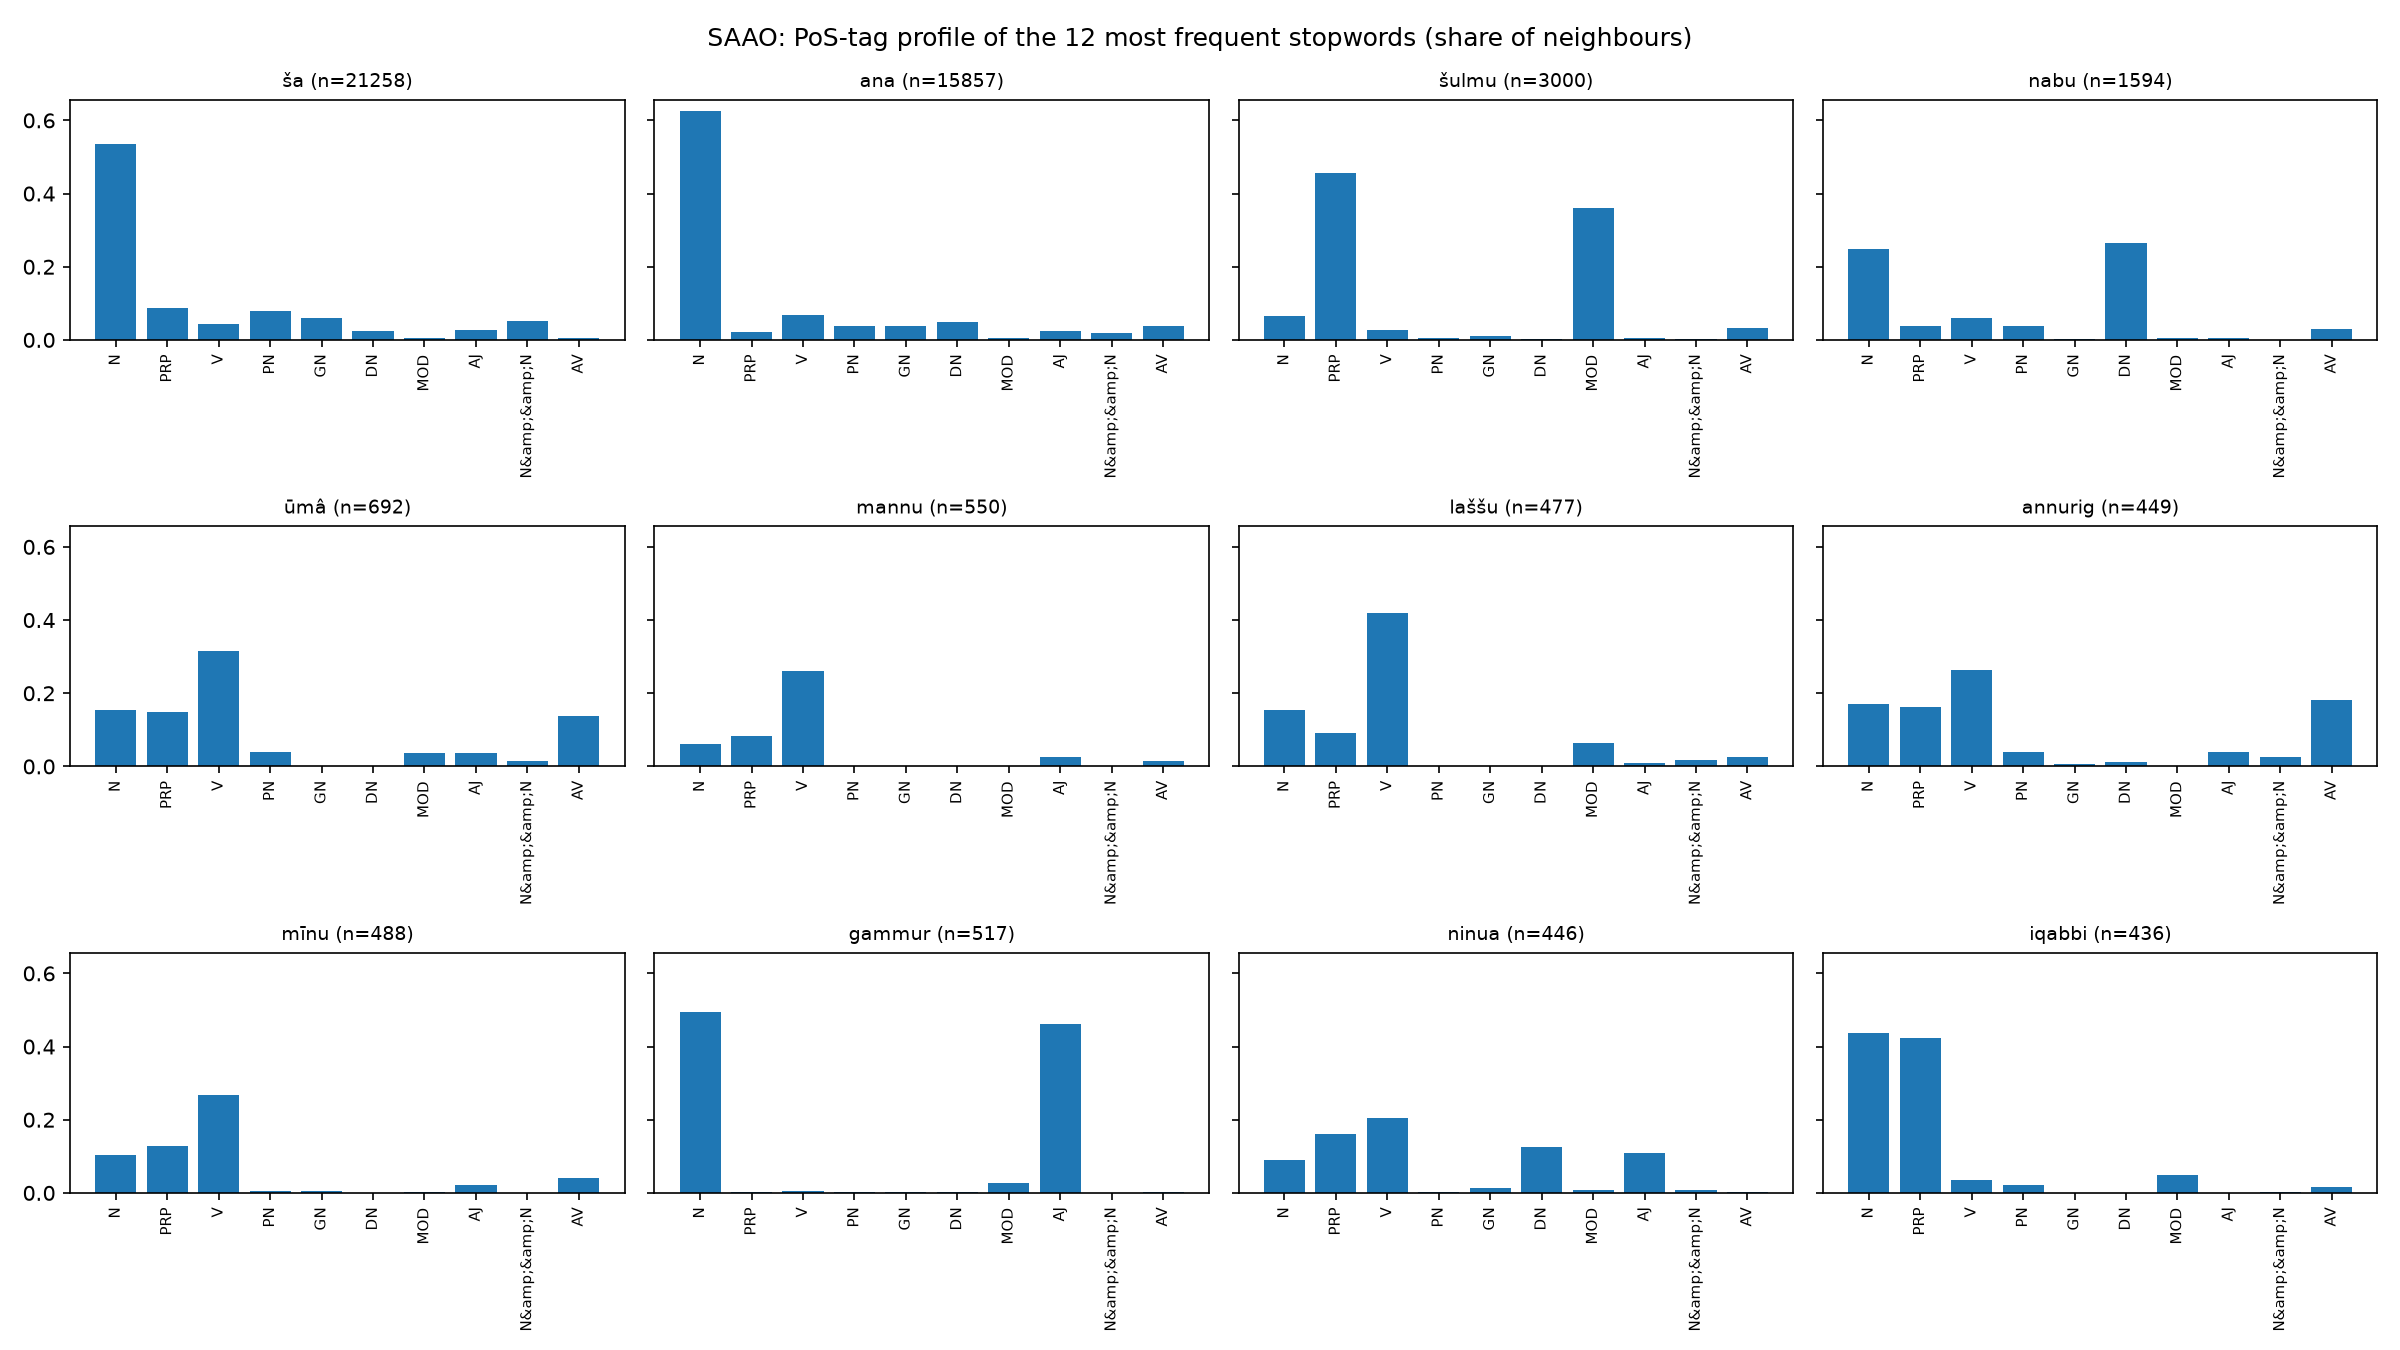
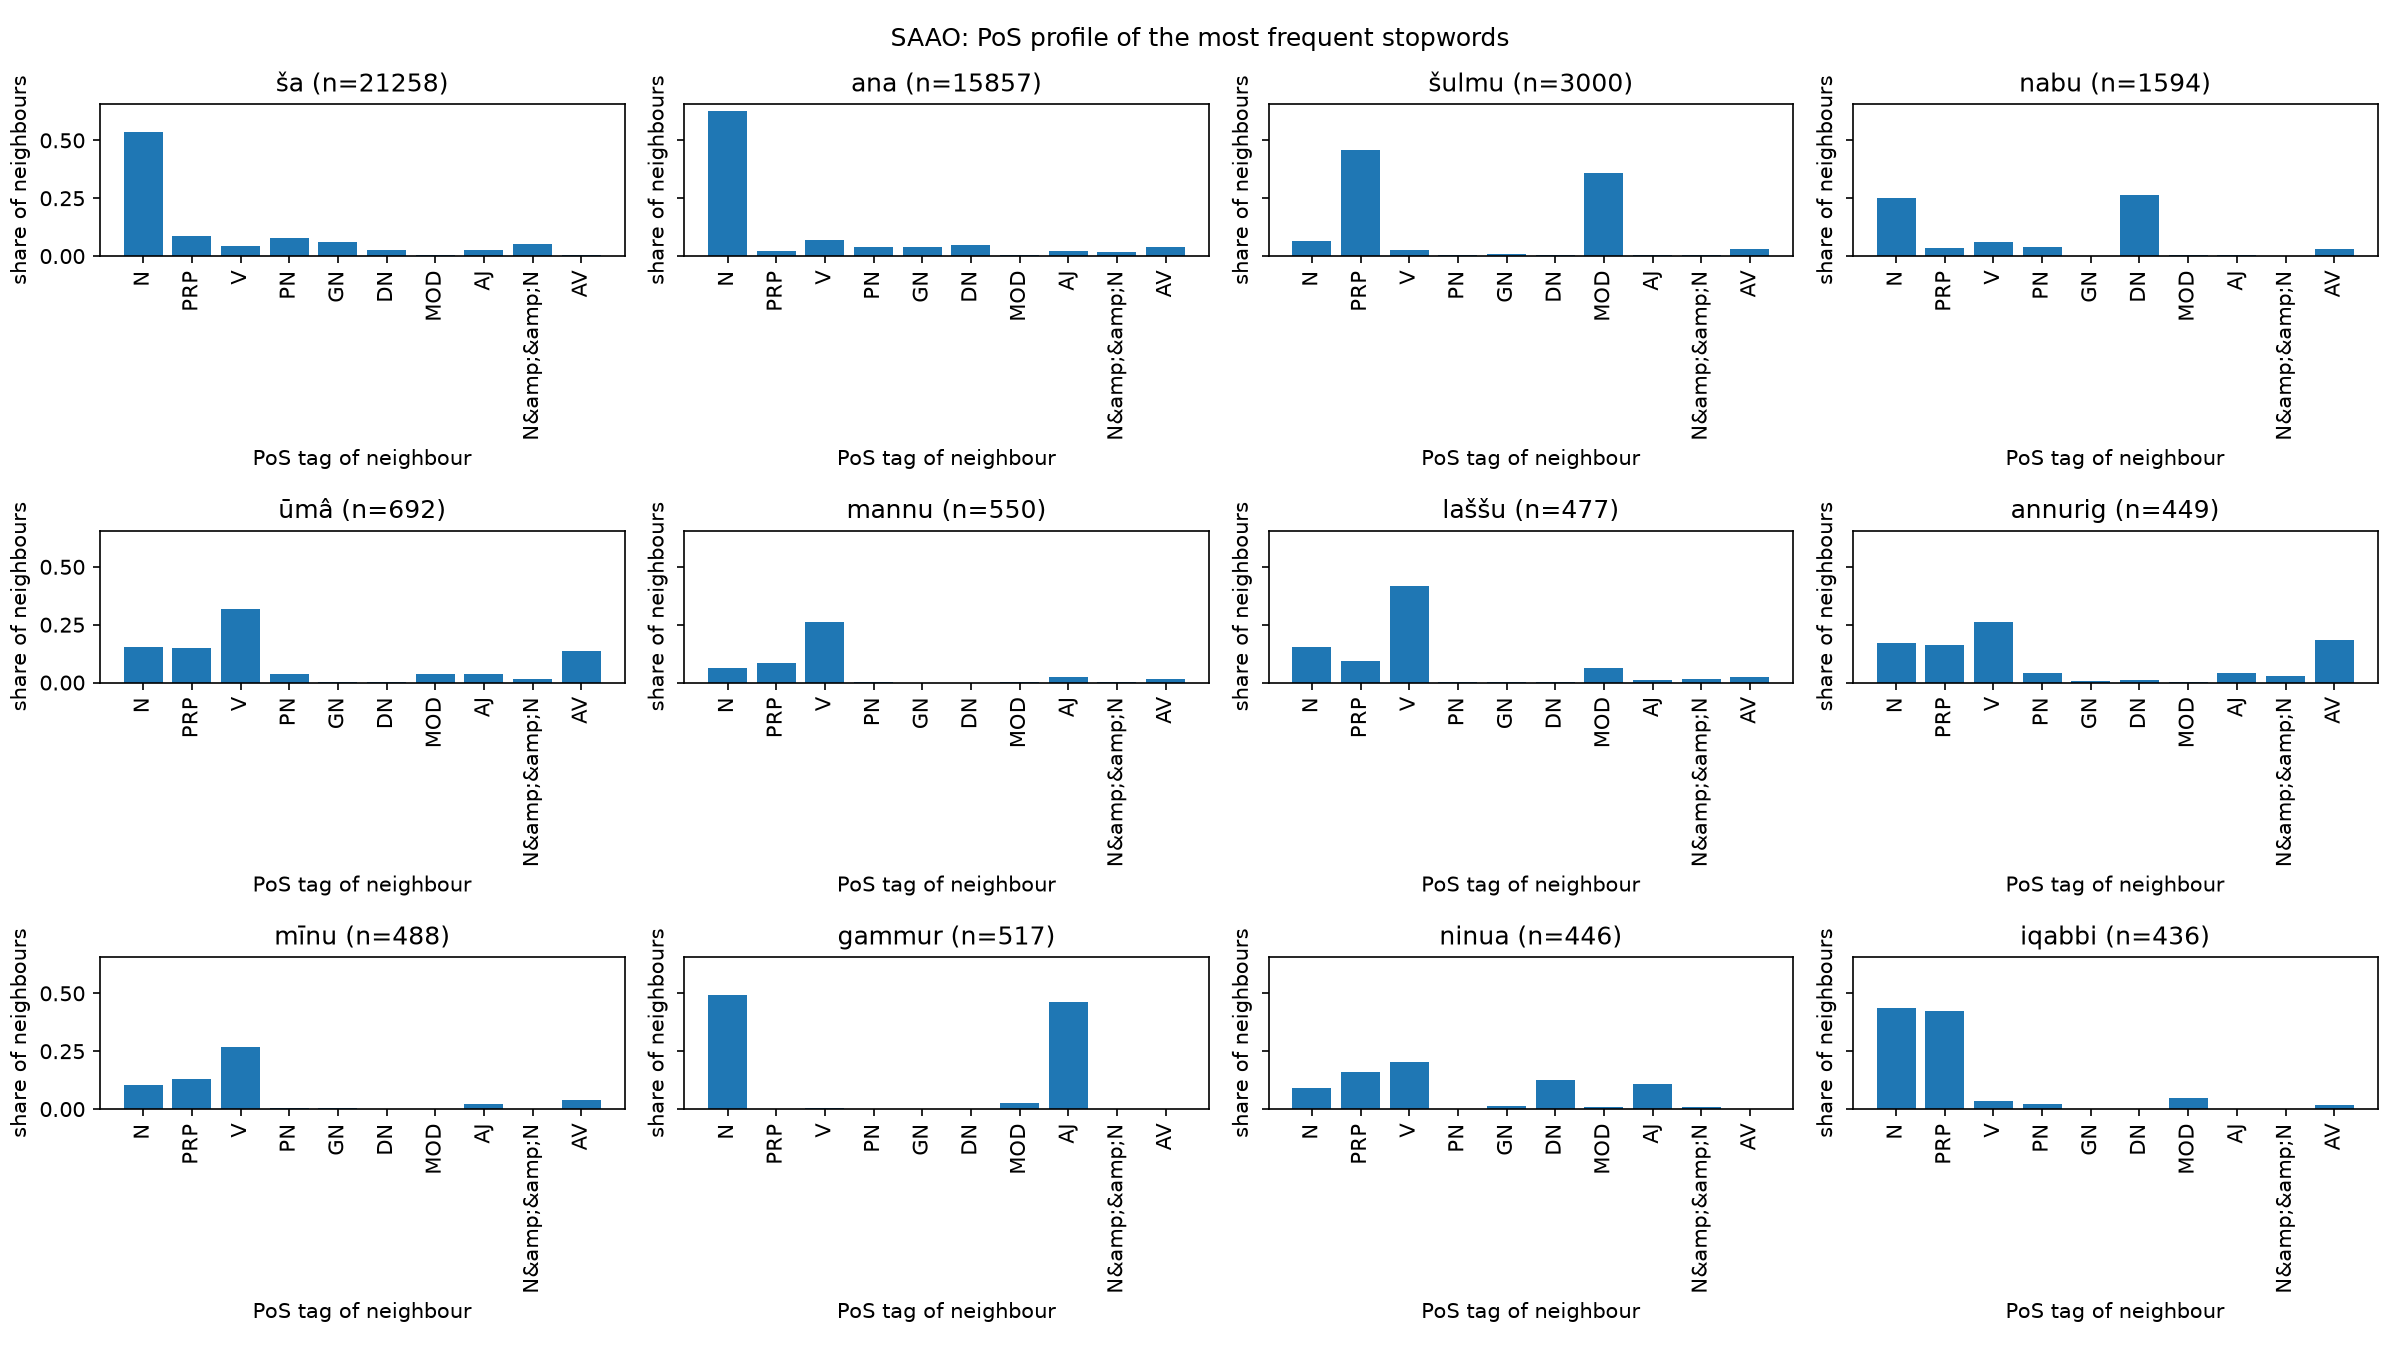
oov task

diff --git a/04_pos_profiles.py b/04_pos_profiles.py
@@ -1,105 +1,68 @@
 import json
+
 import matplotlib.pyplot as plt
 import numpy as np
 import pandas as pd
-from scipy.cluster.hierarchy import leaves_list, linkage
-from scipy.spatial.distance import jensenshannon, squareform
-from common import CORPORA, load_corpus
+from scipy.spatial.distance import jensenshannon
 
-MAIN = "abs_min10_p0.2"
-TOP_N = 30
-MIN_CONTEXTS = 20
+CORPORA = ["cams", "dcclt", "ribo", "rinap", "saao"]
 
-with open("results/gerlach_lists.json", encoding="utf-8") as f:
-    LISTS = json.load(f)
+with open("results/gerlach_stoplist.json", encoding="utf-8") as f:
+    stoplists = json.load(f)                  # made by: python 03_stopwords.py lists
 
-def neighbour_counts(df, words):
-    """Counts of neighbouring PoS tags (previous and next token, same sentence) per word."""
-    df = df.reset_index(drop=True)
-    pos = df["pos"]
-    ph = df["token"] == "_"
-    prev_ok = (df["sent_id"] == df["sent_id"].shift(1)) & ~ph.shift(1, fill_value=True)
-    next_ok = (df["sent_id"] == df["sent_id"].shift(-1)) & ~ph.shift(-1, fill_value=True)
-    prev_pos = pos.shift(1).where(prev_ok)
-    next_pos = pos.shift(-1).where(next_ok)
+for name in CORPORA:
+    df = pd.read_csv(f"data/processed/{name}.csv", keep_default_na=False)   # keeps the "_" rows, so neighbours are correct
+    stats = pd.read_csv(f"results/gerlach_stats_{name}.csv", index_col="token", keep_default_na=False)
+    top = stats.loc[stoplists[name], "N"].sort_values(ascending=False).head(30).index  # 30 most frequent stopwords
 
-    sel = df["token"].isin(words)
-    tok = df.loc[sel, "token"]
-    rows = pd.concat([
-        pd.DataFrame({"token": tok, "tag": prev_pos[sel]}),
-        pd.DataFrame({"token": tok, "tag": next_pos[sel]}),
-    ]).dropna()
-    return rows.groupby(["token", "tag"]).size().unstack(fill_value=0)
+    # PoS tag of the token before and after each word, only inside the same sentence
+    ok_prev = (df["sent_id"] == df["sent_id"].shift(1)) & (df["token"].shift(1) != "_")
+    ok_next = (df["sent_id"] == df["sent_id"].shift(-1)) & (df["token"].shift(-1) != "_")
+    prev_tag = df["pos"].shift(1).where(ok_prev)
+    next_tag = df["pos"].shift(-1).where(ok_next)
 
-def similarity_matrix(counts):
-    P = counts.div(counts.sum(axis=1), axis=0).to_numpy()
-    n = len(P)
-    D = np.zeros((n, n))
-    for i in range(n):
-        for j in range(i + 1, n):
-            D[i, j] = D[j, i] = jensenshannon(P[i], P[j], base=2)
-    return 1 - D, D
+    # one histogram per stopword: how often each PoS tag is a neighbour
+    is_sw = df["token"].isin(top)
+    word = df.loc[is_sw, "token"]
+    tags = pd.concat([pd.DataFrame({"word": word, "tag": prev_tag[is_sw]}),
+                      pd.DataFrame({"word": word, "tag": next_tag[is_sw]})]).dropna()
+    counts = tags.groupby(["word", "tag"]).size().unstack(fill_value=0)
+    counts = counts.loc[counts.sum(axis=1) >= 20]                        # drop words with too few neighbours
+    counts = counts.loc[[w for w in top if w in counts.index]]           # most frequent first
+    counts.to_csv(f"results/pos_profiles_{name}.csv", encoding="utf-8")
+    share = counts.div(counts.sum(axis=1), axis=0)                       # counts -> proportions
 
-def plot_heatmap(S, D, words, name):
-    order = leaves_list(linkage(squareform(D, checks=False), "average"))
-    S_o = S[np.ix_(order, order)]
-    labels = [words[i] for i in order]
-    fig, ax = plt.subplots(figsize=(10, 9))
-    im = ax.imshow(S_o, cmap="viridis", vmin=0, vmax=1)
-    ax.set_xticks(range(len(labels)))
-    ax.set_yticks(range(len(labels)))
-    ax.set_xticklabels(labels, rotation=90, fontsize=8)
-    ax.set_yticklabels(labels, fontsize=8)
-    ax.set_title(f"{name.upper()}: PoS-profile similarity of stopwords (1 - JS distance)")
-    fig.colorbar(im, ax=ax, shrink=0.8)
-    fig.tight_layout()
-    fig.savefig(f"results/pos_similarity_{name}.png", dpi=150)
-    plt.close(fig)
-
-def plot_histograms(counts, name, n_words=12, n_tags=10):
-    """Small-multiple bar charts: PoS-tag distribution next to each stopword."""
-    P = counts.div(counts.sum(axis=1), axis=0)
-    tags = counts.sum().sort_values(ascending=False).head(n_tags).index
-    words = list(P.index[:n_words])
+    # plot the histograms of the 12 most frequent stopwords
+    common = counts.sum().sort_values(ascending=False).head(10).index    # 10 most common neighbour tags
     fig, axes = plt.subplots(3, 4, figsize=(16, 9), sharey=True)
-    for ax, w in zip(axes.ravel(), words):
-        ax.bar(range(len(tags)), P.loc[w, tags].to_numpy())
-        ax.set_xticks(range(len(tags)))
-        ax.set_xticklabels(tags, rotation=90, fontsize=7)
-        ax.set_title(f"{w} (n={int(counts.loc[w].sum())})", fontsize=9)
-    for ax in axes.ravel()[len(words):]:
+    for ax, w in zip(axes.ravel(), share.index[:12]):
+        ax.bar(common, share.loc[w, common])
+        ax.set_title(f"{w} (n={int(counts.loc[w].sum())})")
+        ax.set_xlabel("PoS tag of neighbour")
+        ax.set_ylabel("share of neighbours")
+        ax.tick_params(axis="x", rotation=90)
+    for ax in axes.ravel()[min(12, len(share)):]:
         ax.axis("off")
-    fig.suptitle(f"{name.upper()}: PoS-tag profile of the 12 most frequent stopwords "
-                 f"(share of neighbours)")
+    fig.suptitle(f"{name.upper()}: PoS profile of the most frequent stopwords")
     fig.tight_layout()
     fig.savefig(f"results/pos_histograms_{name}.png", dpi=150)
     plt.close(fig)
 
-if __name__ == "__main__":
-    for name in CORPORA:
-        df = load_corpus(name, remove_placeholder=False)
-        stats = pd.read_csv(f"results/gerlach_stats_{name}.csv",
-                            index_col="token", keep_default_na=False)
-        sw = [w for w in LISTS[name][MAIN] if w in stats.index]
-        top = stats.loc[sw, "N"].sort_values(ascending=False).head(TOP_N).index
+    # similarity matrix: 1 - Jensen-Shannon distance between the histograms (1 = identical)
+    P = share.to_numpy()
+    n = len(P)
+    sim = np.array([[1 - jensenshannon(P[i], P[j], base=2) for j in range(n)] for i in range(n)])
+    pd.DataFrame(sim, index=share.index, columns=share.index).to_csv(f"results/pos_similarity_{name}.csv")
 
-        counts = neighbour_counts(df, set(top))
-        counts = counts.loc[counts.sum(axis=1) >= MIN_CONTEXTS]
-        words = [w for w in top if w in counts.index]
-        counts = counts.loc[words]
-
-        S, D = similarity_matrix(counts)
-        counts.to_csv(f"results/pos_profiles_{name}.csv", encoding="utf-8")
-        pd.DataFrame(S, index=words, columns=words).to_csv(
-            f"results/pos_similarity_{name}.csv", encoding="utf-8")
-        plot_heatmap(S, D, words, name)
-        plot_histograms(counts, name)
-
-        n = len(words)
-        iu = np.triu_indices(n, 1)
-        hi, lo = S[iu].argmax(), S[iu].argmin()
-        print(f"\n{name.upper()}: {n} words, {int(counts.to_numpy().sum())} neighbour counts, "
-              f"{counts.shape[1]} PoS tags")
-        print("  most similar pair: ", words[iu[0][hi]], words[iu[1][hi]], round(S[iu][hi], 3))
-        print("  least similar pair:", words[iu[0][lo]], words[iu[1][lo]], round(S[iu][lo], 3))
-        print("  top tags overall:", counts.sum().sort_values(ascending=False).head(6).to_dict())
+    fig, ax = plt.subplots(figsize=(10, 9))
+    im = ax.imshow(sim, vmin=0, vmax=1, cmap="viridis")
+    ax.set_xticks(range(n))
+    ax.set_xticklabels(share.index, rotation=90, fontsize=8)
+    ax.set_yticks(range(n))
+    ax.set_yticklabels(share.index, fontsize=8)
+    ax.set_title(f"{name.upper()}: similarity of stopword PoS profiles")
+    fig.colorbar(im, ax=ax, shrink=0.8)
+    fig.tight_layout()
+    fig.savefig(f"results/pos_similarity_{name}.png", dpi=150)
+    plt.close(fig)
+    print(name, n, "stopwords profiled")

diff --git a/05_oov.py b/05_oov.py
@@ -1,33 +1,22 @@
 import nltk
 import pandas as pd
 from nltk.corpus import wordnet as wn
-from common import CORPORA, load_corpus
+
+CORPORA = ["cams", "dcclt", "ribo", "rinap", "saao"]
+
 nltk.download("wordnet", quiet=True)
 nltk.download("omw-1.4", quiet=True)
 
-def in_wordnet(word):
-    return len(wn.synsets(word)) > 0
+rows = []
+for name in CORPORA:
+    df = pd.read_csv(f"data/processed/{name}.csv", keep_default_na=False)
+    vocab = df.loc[df["token"] != "_", "token"].unique()      # the distinct words of the corpus
+    oov = [w for w in vocab if not wn.synsets(w)]             # words with no WordNet entry
+    rows.append({"corpus": name,
+                 "vocab_size": len(vocab),
+                 "oov_words": len(oov),
+                 "pct_oov": round(100 * len(oov) / len(vocab), 2)})
 
-if __name__ == "__main__":
-    rows = []
-    for name in CORPORA:
-        counts = load_corpus(name)["token"].value_counts()
-        known = pd.Series([in_wordnet(w) for w in counts.index], index=counts.index)
-        n_types, n_tokens = len(counts), int(counts.sum())
-        oov_types = int((~known).sum())
-        oov_tokens = int(counts[~known].sum())
-        rows.append({
-            "corpus": name,
-            "types": n_types,
-            "oov_types": oov_types,
-            "pct_oov_types": round(100 * oov_types / n_types, 2),
-            "tokens": n_tokens,
-            "oov_tokens": oov_tokens,
-            "pct_oov_tokens": round(100 * oov_tokens / n_tokens, 2),
-        })
-        print(f"\n{name.upper()}: most frequent tokens found in WordNet")
-        print(counts[known].head(12).to_dict())
-
-    table = pd.DataFrame(rows)
-    table.to_csv("results/oov_wordnet.csv", index=False)
-    print(table.to_string(index=False))
+table = pd.DataFrame(rows)
+table.to_csv("results/oov_wordnet.csv", index=False)
+print(table.to_string(index=False))
